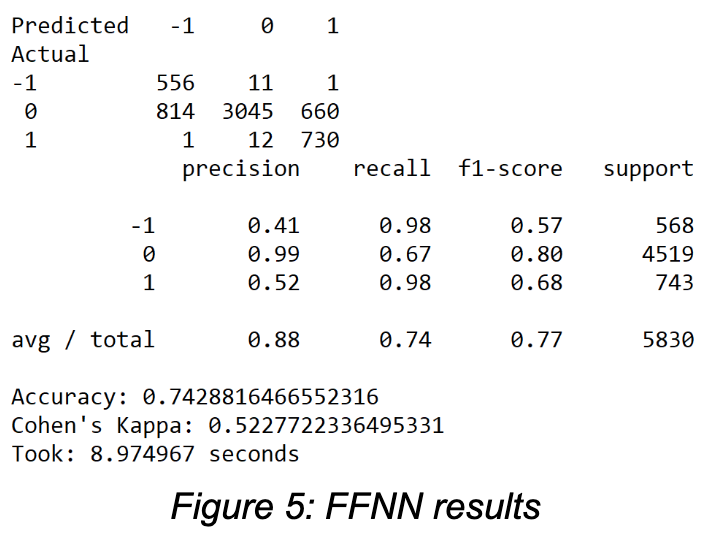
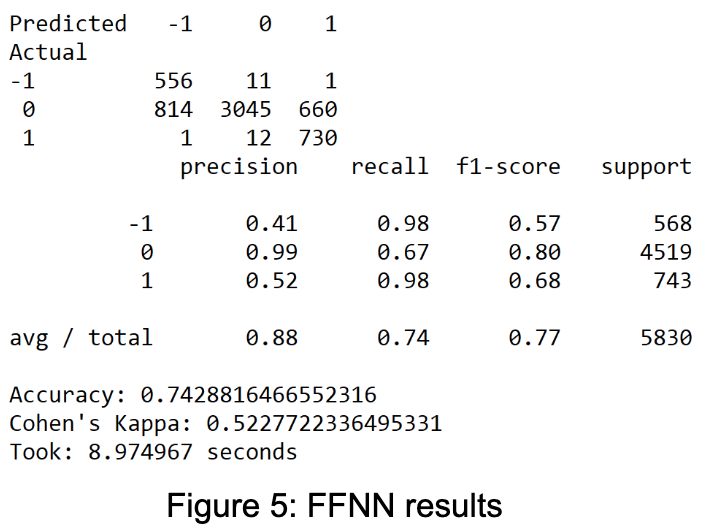
update

diff --git a/README.md b/README.md
@@ -52,6 +52,8 @@ The best RNN adopted GRU (gated recurrent units) cell. The number of units for e
 
 Figure 4 shows the details of the results for the metrics of random forests. They are based on the weighted averages of the metrics, which takes into consideration of the weights of each class. Figure 5 shows the detailed results for the FFNN trained using a learning rate of 0.0003, a batch size of 64 and 200 epochs with early stopping. 
 
-<img width="418" alt="Fig4_random_forest" src="https://user-images.githubusercontent.com/42804316/57713543-b0efc980-7640-11e9-83ff-2ff3830d3d29.png"><img width="354" alt="Fig5_FFNN" src="https://user-images.githubusercontent.com/42804316/57713568-b8af6e00-7640-11e9-9b57-6fbcd15d525d.png">
+<img width="380" alt="Fig4_RF" src="https://user-images.githubusercontent.com/42804316/57713902-5f940a00-7641-11e9-8314-e50c97e26243.png"><img width="352" alt="Fig5_FFNN" src="https://user-images.githubusercontent.com/42804316/57713910-63279100-7641-11e9-8816-68e9cca650ec.png">
 
  Figure 6 shows the detailed results for the CNN trained using a learning rate 0.001, a batch size of 50 and 10 epochs. Figure 7 shows the detailed results for the RNN trained using a learning rate of 0.001, a batch size of 50 and 10 epochs. 
+
+<img width="351" alt="Fig6_CNN" src="https://user-images.githubusercontent.com/42804316/57713941-6c186280-7641-11e9-9b9e-dae789553bcf.png"><img width="354" alt="Fig7_RNN" src="https://user-images.githubusercontent.com/42804316/57713945-6f135300-7641-11e9-97f0-0e25f77edbea.png">
